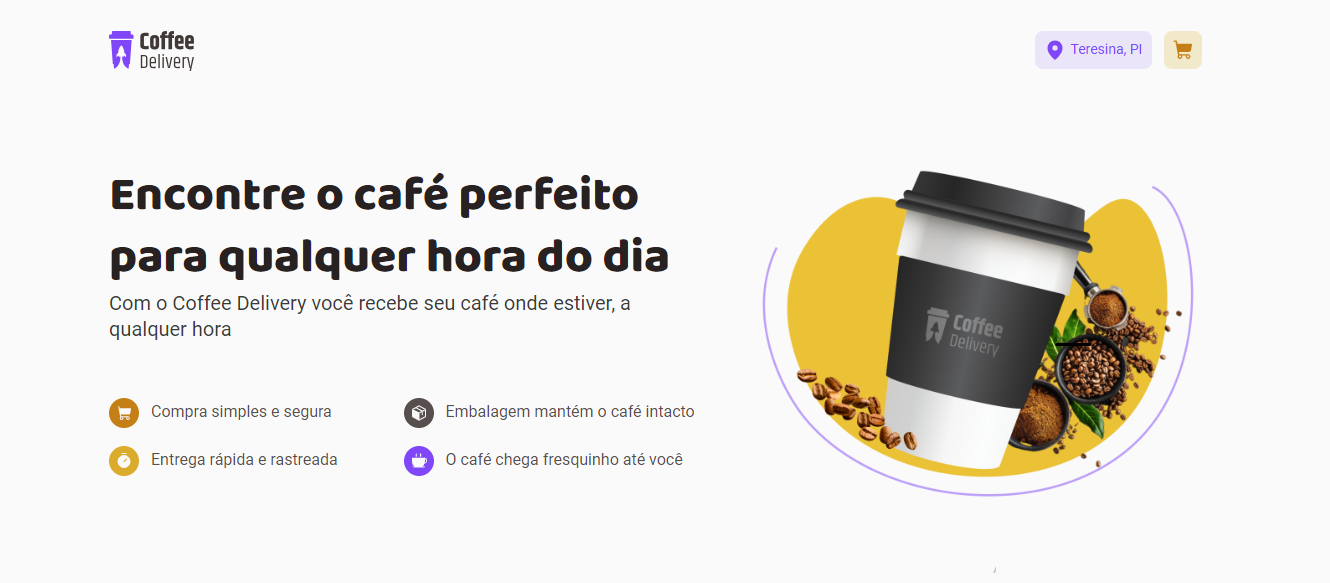
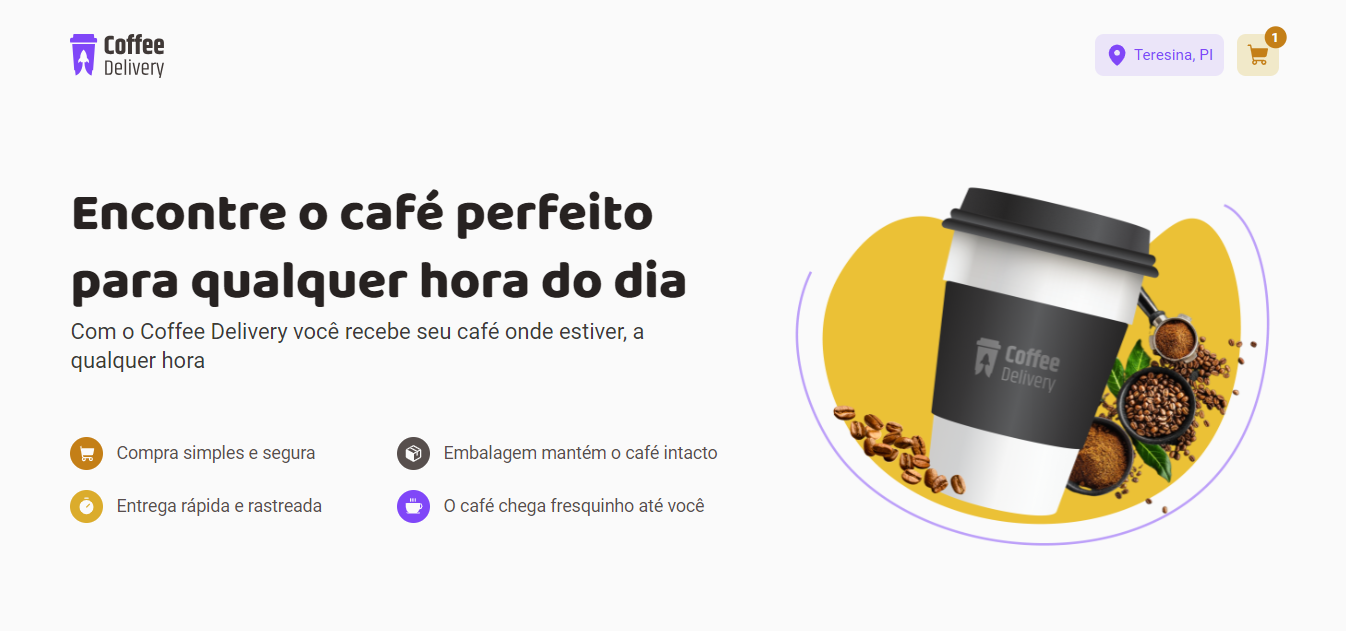
add responsive design for project cards

diff --git a/src/components/organisms/Header/index.tsx b/src/components/organisms/Header/index.tsx
@@ -1,19 +1,27 @@
 import { useTranslation } from "react-i18next"
-import { FirstItem, HeaderContainer, OtherItens } from './styles.ts'
+import { FirstItem, HeaderContainer, OtherItems, ToggleButton } from './styles.ts'
 
 export function Header(){
-  const { t, i18n } = useTranslation("global")
+  const { t, i18n } = useTranslation("global");
   const handleChangeLanguage = (event: React.ChangeEvent<HTMLSelectElement>) => {
     const lang = event.target.value;
     i18n.changeLanguage(lang)
+  };
+
+  function handleToggleMenu(){
+
   }
+
   return(
     <HeaderContainer>
         <ul>
           <FirstItem>
             <li><a href="">{t("header.first-item")}</a></li>
           </FirstItem>
-          <OtherItens>
+          <ToggleButton onClick={handleToggleMenu}>
+            <img src="toggle-button.svg" alt="" />
+          </ToggleButton>
+          <OtherItems>
             <li><a href="">{t("header.second-item")}</a></li>
             <li><a href="">{t("header.third-item")}</a></li>
             <li><a href="">{t("header.fourth-item")}</a></li>
@@ -23,7 +31,7 @@ export function Header(){
                 <option value="pt">Português(BR)</option>
               </select>
             </li>
-          </OtherItens>
+          </OtherItems>
         </ul>
       </HeaderContainer>
   )

diff --git a/src/App.tsx b/src/App.tsx
@@ -2,7 +2,7 @@ import { ThemeProvider } from 'styled-components'
 
 import { defaultTheme } from './styles/themes/default.ts'
 import { GlobalStyle } from './styles/global.ts'
-import { Container, ProjectSection } from './App.ts'
+import { Container, ProjectCard, ProjectSection } from './App.ts'
 import { Projects } from './components/organisms/Projects/index.tsx'
 import { Header } from './components/organisms/Header/index.tsx'
 import { Hero } from './components/organisms/Hero/index.tsx'
@@ -19,7 +19,7 @@ export function App() {
         <Hero />
         <ProjectSection>
           <h2>{t("projects.title")}</h2>
-          <div>
+          <ProjectCard>
             {projectIds.map((projectId, index) => (
               <Projects
                 key={projectId}
@@ -27,7 +27,7 @@ export function App() {
                 reverse={index % 2 !== 0}
               />
             ))}
-          </div>
+          </ProjectCard>
         </ProjectSection>
       </Container>
       <GlobalStyle />

diff --git a/src/components/organisms/Hero/styles.ts b/src/components/organisms/Hero/styles.ts
@@ -3,7 +3,8 @@ import { typography } from "../../../styles/typography";
 
 export const HeroContainer = styled.header`
   img{
-    height: 28rem;
+    max-height: 28rem;
+    height: auto;
   }
   .separator{
     padding-bottom: 3rem;
@@ -23,20 +24,26 @@ export const MainContainer = styled.div`
   display: flex;
   align-items: center;
   justify-content: center;
-  gap: 2rem;
   div{
     display: flex;
     flex-direction: column;
     gap: 1.5rem;
+
     .typed-out {
-    ${typography.fonts.spanHero};
-    
-  }
+      ${typography.fonts.spanHero};
+    }
     h3{
       color: ${(props)=> props.theme.colors['primary-color']};
     }
   }
   @media only screen and (max-width: 768px) {
     flex-direction: column;
+
+    .typed-out{
+      padding-top: 1.5rem;
+    }
+    p{
+      text-align: justify;
+    }
   } 
 `

diff --git a/src/components/organisms/Header/styles.ts b/src/components/organisms/Header/styles.ts
@@ -29,7 +29,7 @@ export const FirstItem = styled.li`
   }
 `
 
-export const OtherItens = styled.li`
+export const OtherItems = styled.li`
   display: flex;
   gap: 2rem;
   a{
@@ -39,5 +39,18 @@ export const OtherItens = styled.li`
       color: ${(props)=> props.theme.colors["primary-color"]};
       border-bottom: 3px solid ${(props)=>props.theme.colors['primary-color']};
     }
+  }
+  @media only screen and (max-width: 768px) {
+    display: none;
+  }
+`
+
+export const ToggleButton = styled.button`
+  display: none;
+  background: transparent;
+  border: none;
+
+  @media only screen and (max-width: 768px) {
+    display: block;
   }
 `

diff --git a/src/App.ts b/src/App.ts
@@ -20,3 +20,9 @@ export const ProjectSection = styled.div`
     padding: 0 1rem 0 1rem;
   }
 `
+
+export const ProjectCard = styled.div`
+  @media only screen and (max-width: 768px) {
+    width: auto; 
+  }
+`

diff --git a/src/components/organisms/Projects/styles.ts b/src/components/organisms/Projects/styles.ts
@@ -27,6 +27,10 @@ export const ProjectCard = styled.div<{ reverse?: boolean }>`
 
   @media (max-width: 768px) {
     flex-direction: column;
+
+    img{
+      width: 18rem;
+    }
   }
 `
 
